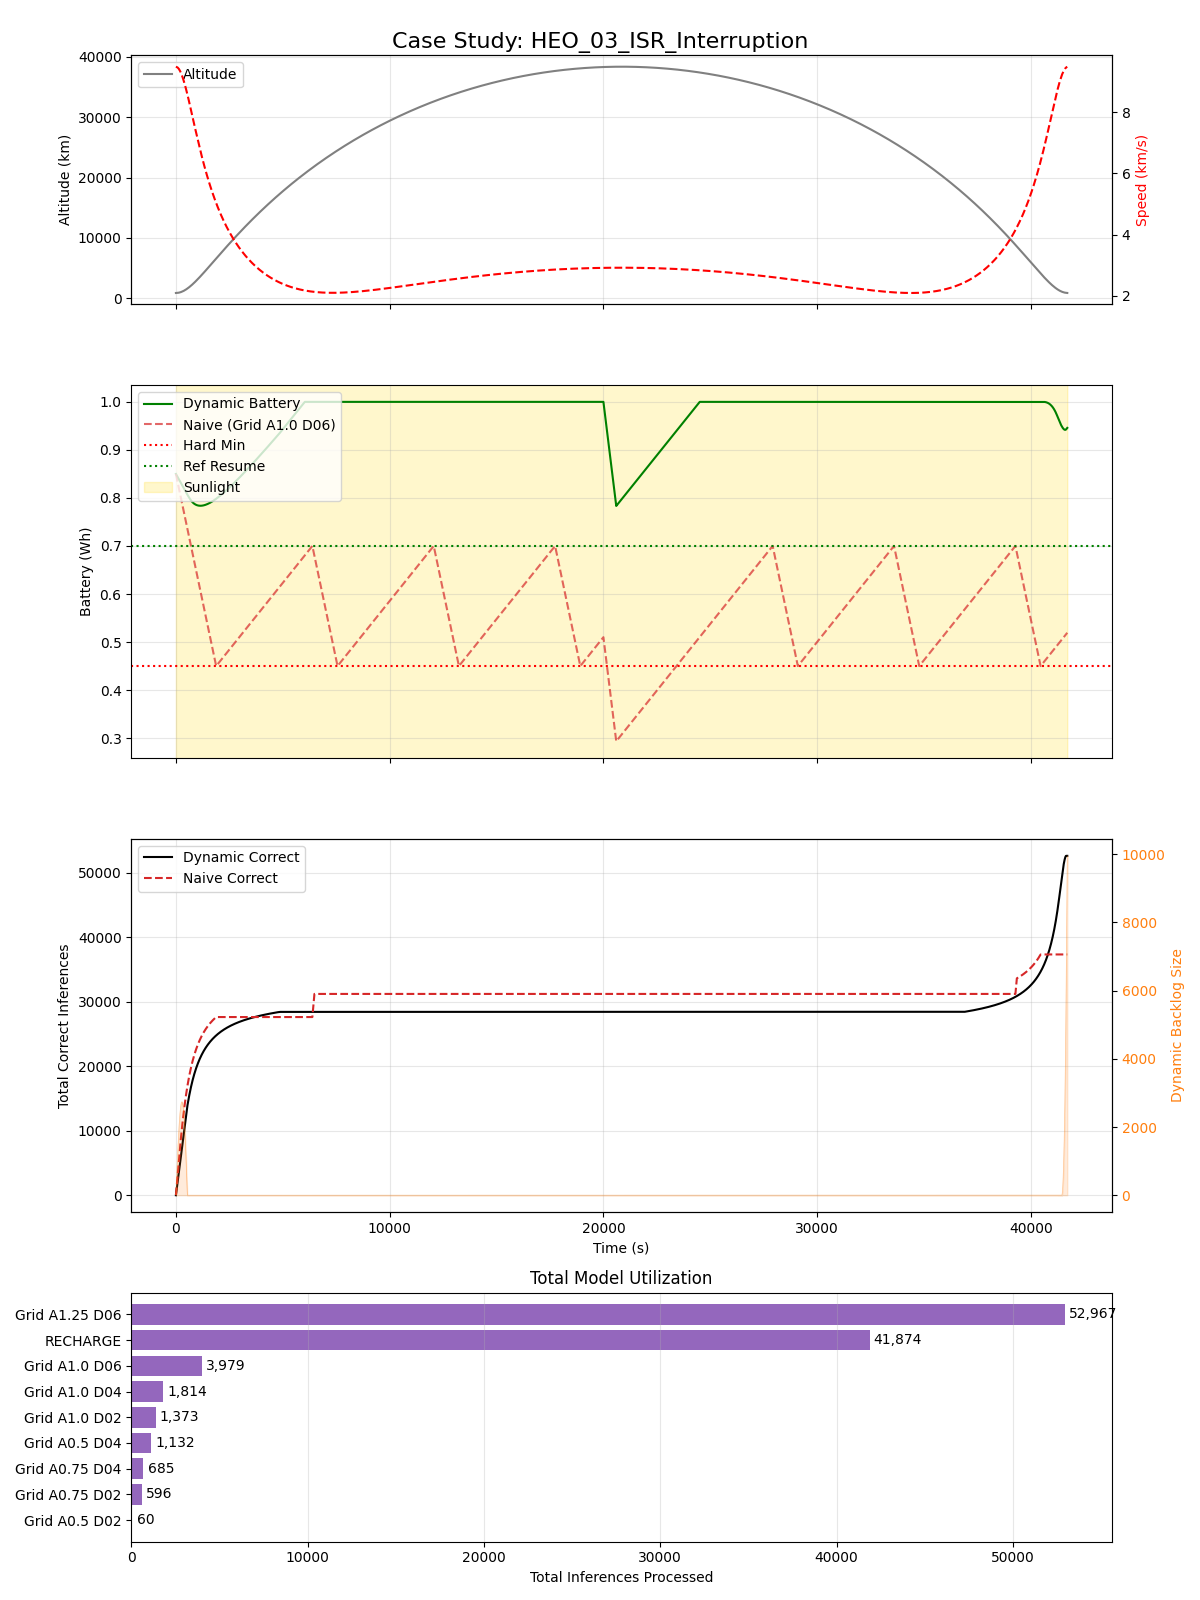
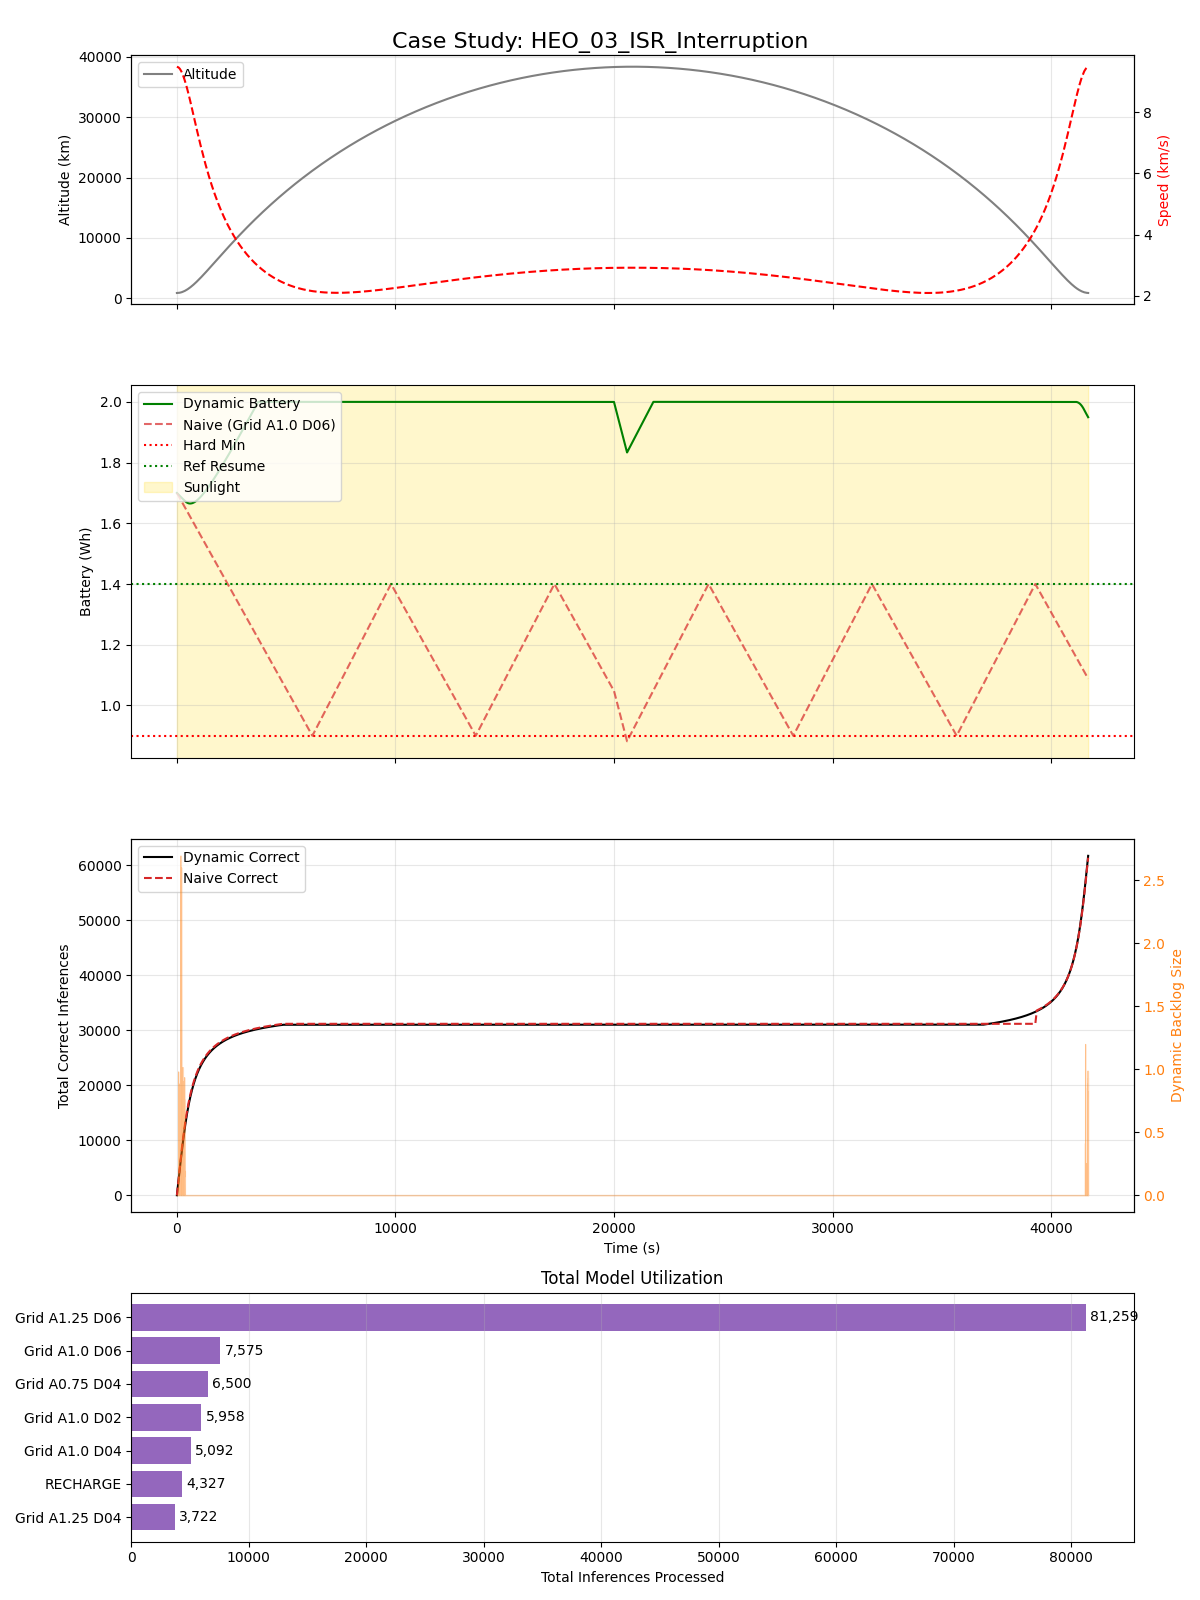
[feature] variable tile regimes.

diff --git a/src/scripts/dynamic_selection_sims/continuous_dynamic_execution.py b/src/scripts/dynamic_selection_sims/continuous_dynamic_execution.py
@@ -125,41 +125,44 @@ class ContinuousSatSim:
         'pixel_pitch_um': 3.45,
         'sensor_res': 4096,
         'tpu_dim': 224,
-        'min_pixels': 10,
         'system_baseload_mw': 300.0,
         'sim_dt_s': 1.0,
         
-        # Power Management Logic
+        # dual regime sensing defaults
+        'alt_threshold_km': 4000.0,
+        'low_alt_target_km': 20.0,
+        'low_alt_min_px': 50,
+        'high_alt_target_km': 75.0, # look for massive features at apogee
+        'high_alt_min_px': 2,        # accept heavily pixelated data
+        
+        # power management
         'initial_charge_pct': 0.85,
-        'compute_enable_pct': 0.70,   # Used for plotting reference only now
-        'compute_disable_pct': 0.45,  # Used as hard floor
+        'compute_enable_pct': 0.70,
+        'compute_disable_pct': 0.45,
     }
 
     @staticmethod
     def get_heo_config():
-        """
-        HEO Configuration: Optimized for long-range observation.
-        """
+        # heo config: swap from micro to macro tracking at 5000km
         cfg = ContinuousSatSim.BASE_SYSTEM.copy()
         cfg.update({
             'focal_length_mm': 300.0,
-            'target_tile_km': 50.0,
-            'battery_capacity_wh': 1.0,
-            'solar_generation_mw': 500.0,
-            'buffer_max_frames': 200,
+            'battery_capacity_wh': 2.0,
+            'solar_generation_mw': 800.0,
+            'buffer_max_frames': 1000,
+            'alt_threshold_km': 5000.0,
+            'high_alt_target_km': 75.0,
+            'high_alt_min_px': 2,
         })
         return cfg
 
     @staticmethod
     def get_sso_config():
-        """
-        SSO Configuration: Optimized for high-speed mapping.
-        """
+        # sso config: altitude never crosses threshold, so it stays in low alt mode
         cfg = ContinuousSatSim.BASE_SYSTEM.copy()
         cfg.update({
             'focal_length_mm': 85.0,
-            'target_tile_km': 20.0,
-            'battery_capacity_wh': 1.5,  # less than a 18650 cell, more than the supercap
+            'battery_capacity_wh': 1.5,
             'solar_generation_mw': 500.0,
             'buffer_max_frames': 500,
         })
@@ -436,13 +439,15 @@ class ContinuousSatSim:
             env_energy_j = (solar_w - base_w) * dt 
             infs_for_this_second = row['demand_infs_per_sec'] * dt
             
-            # Populate Buffers & Track Frame Stats
+            # populate buffers & track frame stats
             buffered_this_step = False
-            if row['px_per_object'] < cfg['min_pixels']:
-                active_model_name = "Blind" 
+            
+            # if demand is zero, physics engine determined data is unusable
+            if infs_for_this_second <= 0.0:
+                active_model_name = "blind" 
                 report_stats['unprocessed_count'] += 1 
             else:
-                active_model_name = "Idle"
+                active_model_name = "idle"
                 if infs_for_this_second > 1.0: 
                     if len(frame_buffer) < cfg['buffer_max_frames']:
                         frame_buffer.append(FrameJob(i, infs_for_this_second, t_rel))
@@ -450,7 +455,7 @@ class ContinuousSatSim:
                         if naive_model is not None:
                             n_buffer.append(FrameJob(i, infs_for_this_second, t_rel))
                     else:
-                        report_stats['unprocessed_count'] += 1 # Buffer overflow drop
+                        report_stats['unprocessed_count'] += 1 # buffer overflow drop
             
             if buffered_this_step and len(frame_buffer) > 1:
                  report_stats['buffered_count'] += 1
@@ -614,7 +619,7 @@ class ContinuousSatSim:
         print("-" * 60)
         
         # calc tiles per frame
-        tiles_per_frame = (sim_data['swath_km'] / cfg['target_tile_km'])**2
+        tiles_per_frame = (sim_data['swath_km'] / sim_data['current_target_km'])**2
 
         # print new figures of merit (min / max)
         print("figures of merit (min / max):")
@@ -650,9 +655,7 @@ class ContinuousSatSim:
         print(f"{'='*60}\n")
 
     def _interpolate_orbit(self, df, sunlight_intervals, dt, cfg):
-        """
-        Interpolates the variable-step orbit data to a fixed time step (dt).
-        """
+        # interpolates orbit data and calculates dynamic physics
         if df.empty: return pd.DataFrame()
         
         t_start = df['Time (EpSec)'].min()
@@ -683,15 +686,24 @@ class ContinuousSatSim:
         new_df['v_ground_km_s'] = v_ground
         new_df['dwell_time_s'] = new_df['swath_km'] / (v_ground + 1e-9)
 
-        target_size_m = cfg['target_tile_km'] * 1000.0
+        # dual regime logic based on altitude
+        is_low_alt = new_df['Alt (km)'] <= cfg['alt_threshold_km']
+        
+        target_size_km = np.where(is_low_alt, cfg['low_alt_target_km'], cfg['high_alt_target_km'])
+        min_px = np.where(is_low_alt, cfg['low_alt_min_px'], cfg['high_alt_min_px'])
+        
+        target_size_m = target_size_km * 1000.0
         new_df['px_per_object'] = target_size_m / new_df['gsd_m']
         
         tpu_dim = cfg['tpu_dim']
-        infs_per_object = np.where(new_df['px_per_object'] < cfg['min_pixels'], 0.0, (new_df['px_per_object'] / tpu_dim)**2)
+        infs_per_object = np.where(new_df['px_per_object'] < min_px, 0.0, (new_df['px_per_object'] / tpu_dim)**2)
         
-        objects_in_fov = (new_df['swath_km'] / cfg['target_tile_km'])**2
+        objects_in_fov = (new_df['swath_km'] / target_size_km)**2
         total_infs_per_frame = objects_in_fov * infs_per_object
         new_df['demand_infs_per_sec'] = total_infs_per_frame / new_df['dwell_time_s']
+        
+        # save this for the reporting tool so it doesn't crash on the dynamic config
+        new_df['current_target_km'] = target_size_km
         
         return new_df
 
